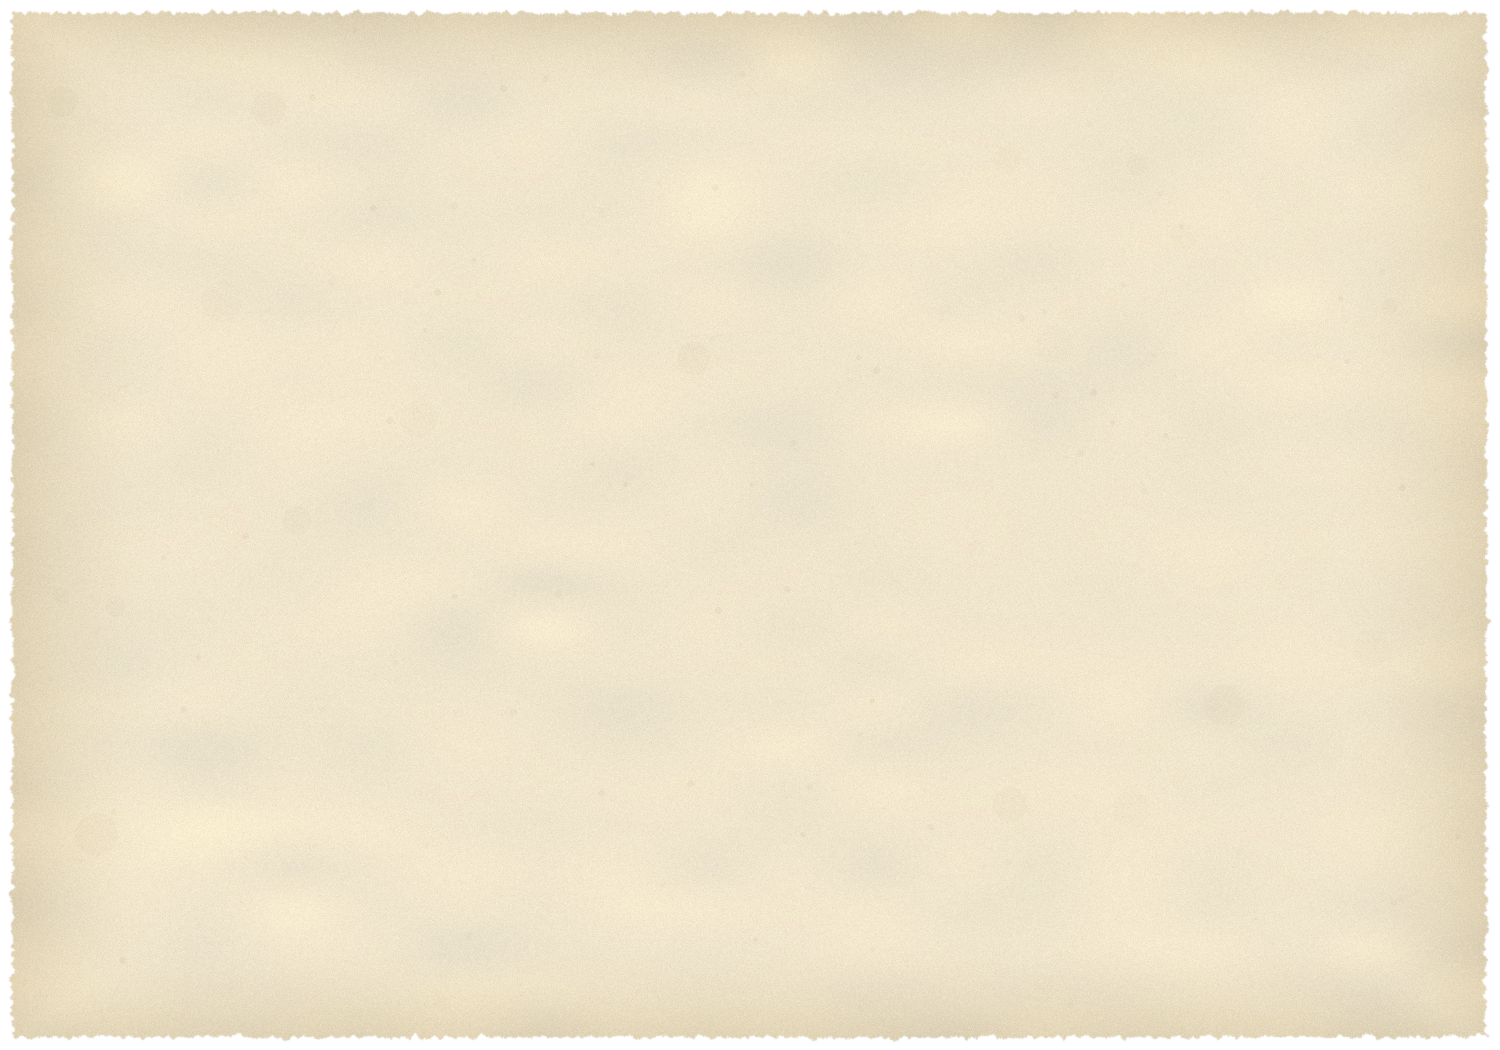
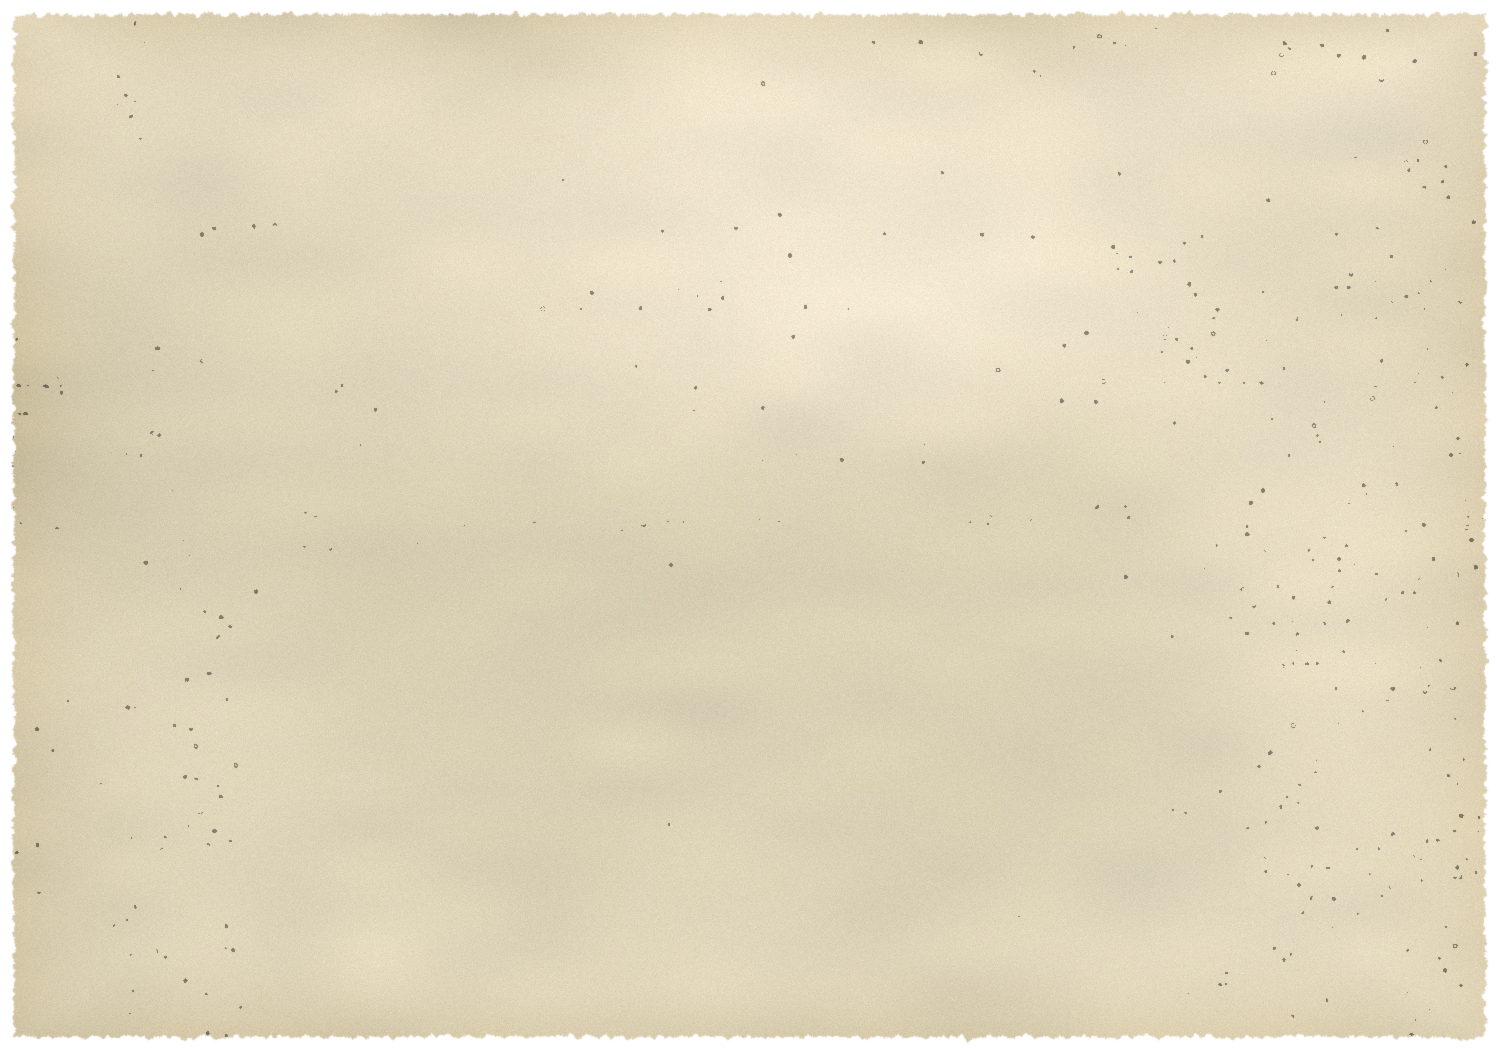
Composite real Hottel memo patina (public-domain PD-USGov-FBI) into paper texture; text suppressed, patina only

diff --git a/penafalcon-v2.css b/penafalcon-v2.css
@@ -63,7 +63,7 @@ body::before {
   width: min(880px, 100%);
   padding: 66px clamp(30px, 6vw, 84px) 78px;
   /* the aged, deckle-edged paper */
-  background: url("img/motifs/paper-card.png?v=2") center/100% 100% no-repeat;
+  background: url("img/motifs/paper-card.png?v=3") center/100% 100% no-repeat;
   transform: rotate(-.5deg);
   filter: drop-shadow(0 34px 46px rgba(0,0,0,.62)) drop-shadow(0 8px 14px rgba(0,0,0,.5));
 }
